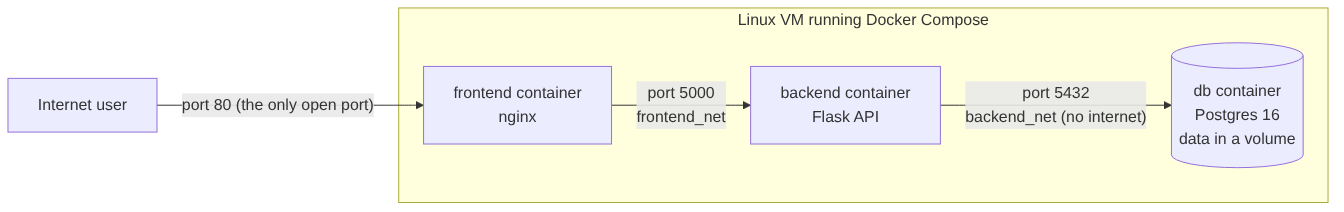
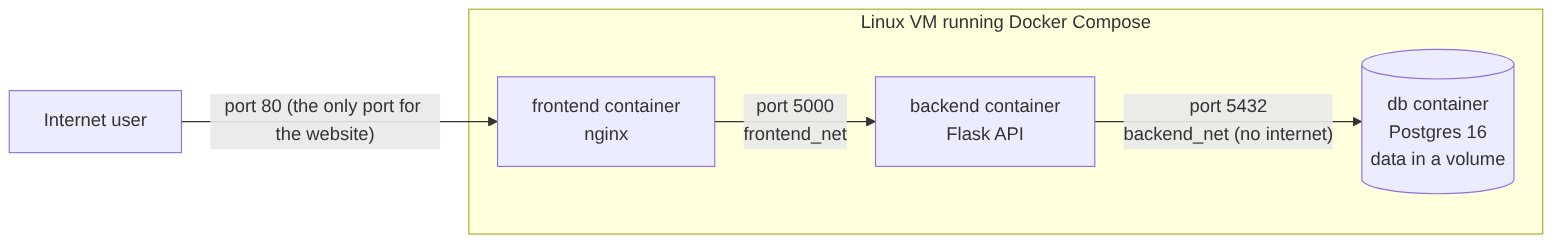
Add the architecture document with a legend, fix the diagram label and replace the .mmd file

diff --git a/docs/architecture.md b/docs/architecture.md
@@ -1,0 +1,22 @@
+# FormFlow architecture
+
+This is the diagram I drew for section 2.1 of the Phase 0 design worksheet. Each arrow points from the part that sends a request to the part that receives it, and the label on the arrow says which port is used and which network carries the request.
+
+```mermaid
+flowchart LR
+    user["Internet user"] -->|"port 80 (the only port for the website)"| fe
+    subgraph vm ["Linux VM running Docker Compose"]
+        fe["frontend container<br/>nginx"] -->|"port 5000<br/>frontend_net"| be["backend container<br/>Flask API"]
+        be -->|"port 5432<br/>backend_net (no internet)"| db[("db container<br/>Postgres 16<br/>data in a volume")]
+    end
+```
+
+## How to read it
+
+Here is what the diagram shows, one point at a time.
+
+- Of the three containers, only the frontend publishes a port, and that port is 80, which is the port people use to open the website. The backend and the db have no port that anyone on the internet can reach. The VM also keeps port 22 open so that the pipeline can log in with an SSH key and deploy, but that port is not part of the app, and I explain why it is open in the notes at the end of the worksheet.
+- I made a network called frontend_net. It connects the frontend and the backend, so the frontend can pass the requests it receives on to the backend. That is the only job this network does.
+- I made a second network called backend_net. It connects the backend and the db, so the backend can save and read the form entries. I marked this network as internal, which means Docker gives it no connection to the internet at all.
+- The frontend and the db are never on the same network, so they cannot talk to each other. A request has to go through the backend before it can reach the db.
+- The form entries are stored in a volume called db_data. A volume is a storage space that lives outside the container, so if I delete and recreate the db container, for example during a deploy or a rollback, the data is still there.

diff --git a/docs/phase0-design-worksheet.md b/docs/phase0-design-worksheet.md
@@ -21,7 +21,7 @@ My idea is to ship often, but make every release small, labelled, tested and eas
 
 ![Architecture diagram](architecture.png)
 
-The picture above is drawn from the file architecture.mmd in the same folder.
+The picture above is a copy of the diagram in architecture.md in the same folder, which also has a short note on how to read it.
 
 I split the app into three containers and each one has one job.
 
@@ -41,10 +41,10 @@ Why I did not put everything in one container:
 
 Networks:
 
-- frontend_net joins the frontend and the backend.
-- backend_net joins the backend and the db. I marked it internal, so Docker gives it no internet connection in either direction.
-- The backend is on both networks. The frontend and the db share no network, so they cannot talk to each other.
-- Only the frontend publishes a port, and only port 80. The public address is just http://VM-IP with nothing after it.
+- I made a network called frontend_net. It connects the frontend and the backend, so the frontend can pass the requests it receives on to the backend.
+- I made a second network called backend_net. It connects the backend and the db, so the backend can save and read the form entries. I marked it internal, which means Docker gives it no connection to the internet in either direction.
+- The backend is on both networks, but the frontend and the db do not share any network, so they cannot talk to each other. A request has to go through the backend to reach the data.
+- Of the three containers, only the frontend publishes a port, and it is only port 80. This is why the public address is just http://VM-IP with nothing after it.
 
 ## 2.2 Versioning and tagging strategy
 
